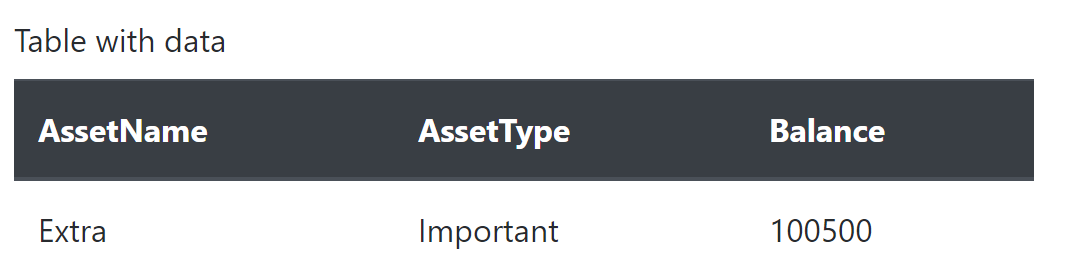
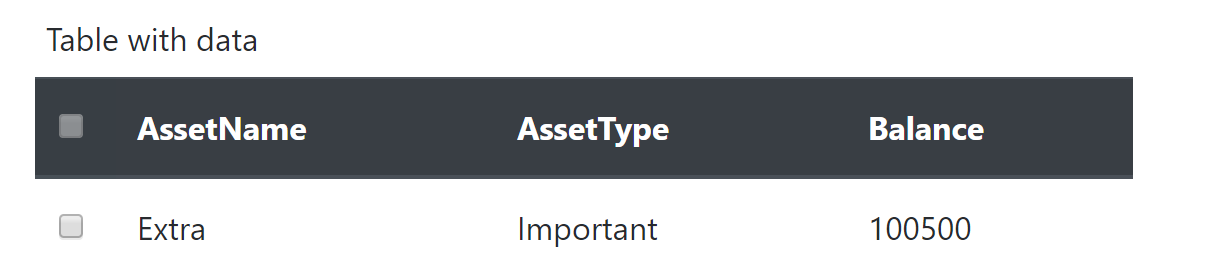
update readme

diff --git a/readme.md b/readme.md
@@ -642,7 +642,7 @@ Generated screen
 | Checkbox | Allows to confirm user intention | ![Button](./assets/wiki/images/ui-diagram-checkbox.png) |
 | Combobox | Allows to select single value from list of proposals | ![Button](./assets/wiki/images/ui-diagram-select.png) |
 | Panel | Allows to group controls into single container |  |
-| Table | Allows to represent list data | ![Button](./assets/wiki/images/ui-diagram-table.png) |
+| Table with selection | Allows to represent list data | ![Button](./assets/wiki/images/ui-diagram-table.png) |
 
 #### Bind data to controls from business process models
 To be able to populate data into specific controls - this controls need to be linked with diagrams that defines business process to collect data.
